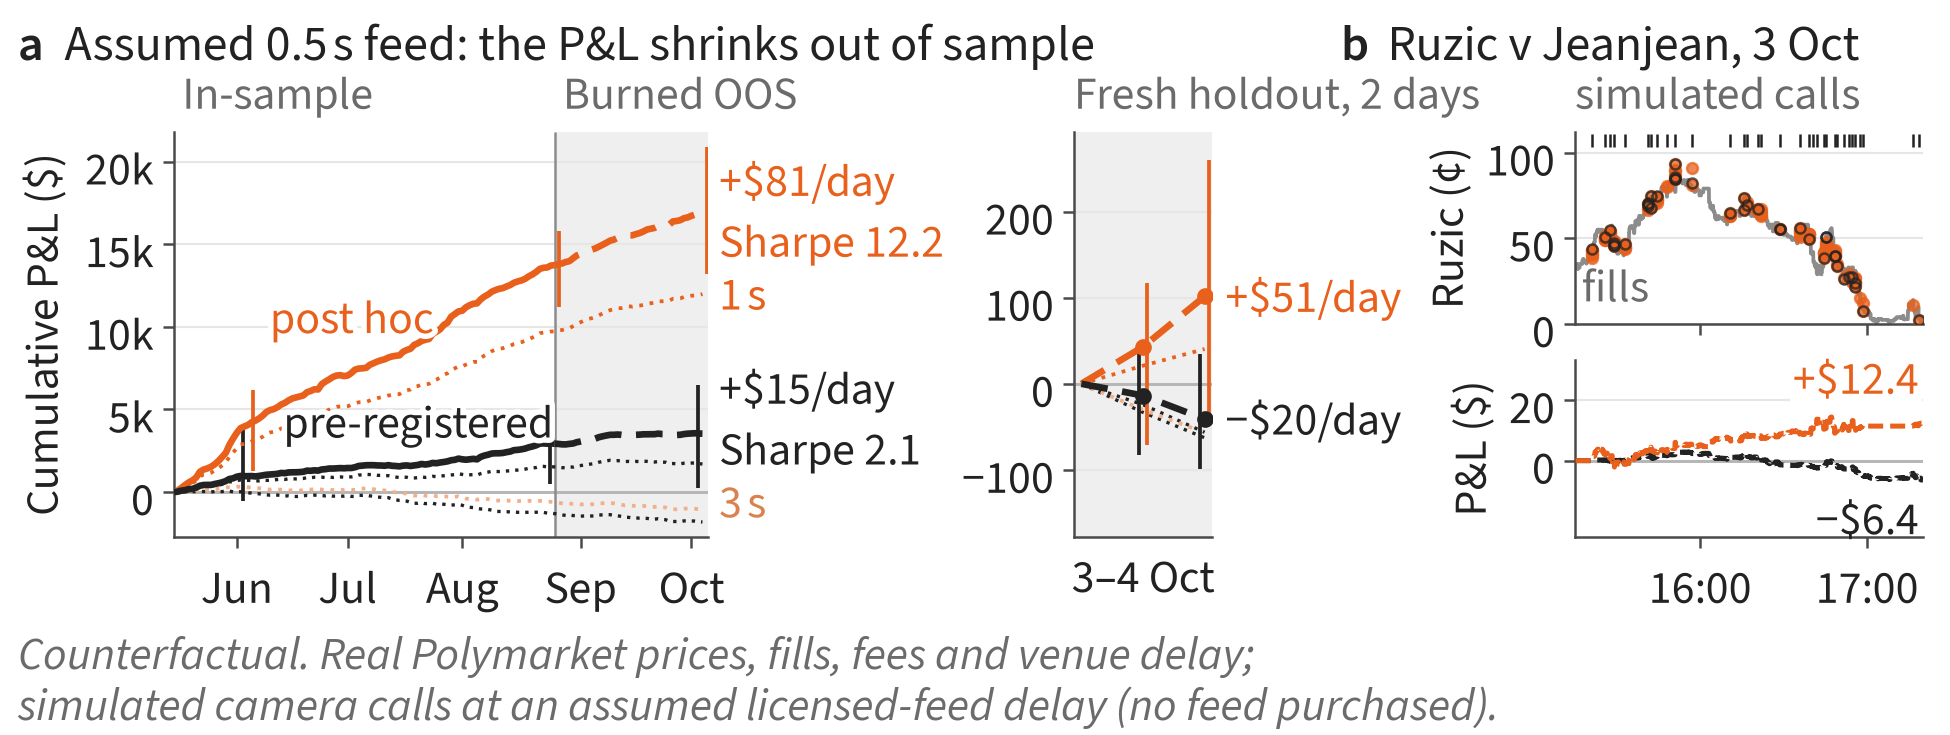
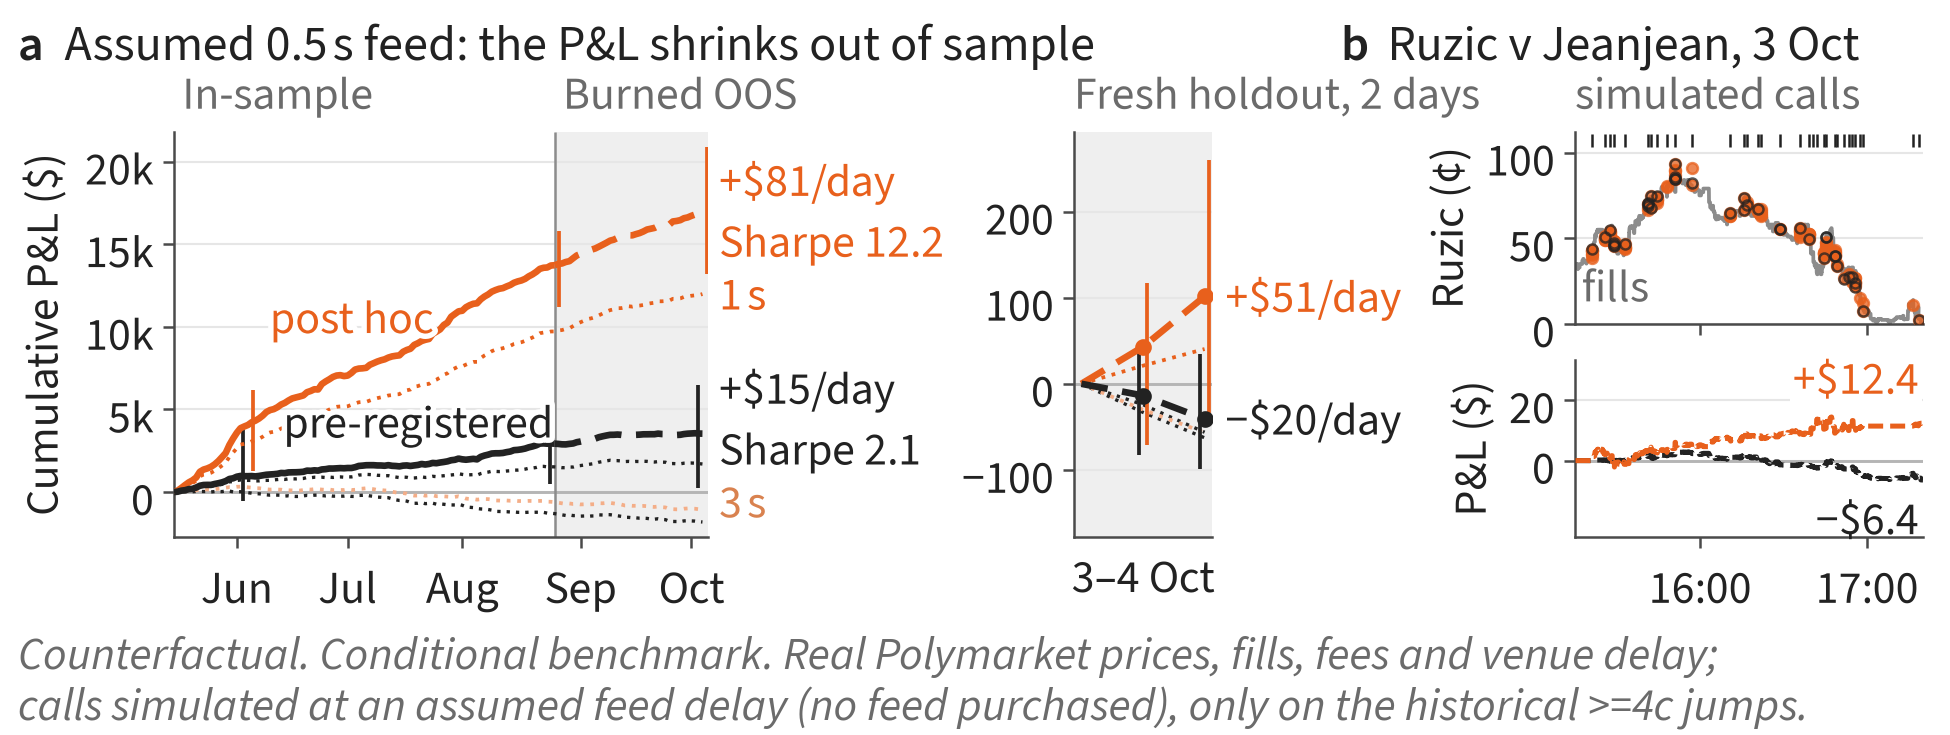
Firm scenario figure: label the jump-set trader as a conditional benchmark; figure and caption regenerated, numbers unchanged

Changed region(s): [[0.0, 0.868, 0.9231, 0.9878]]

diff --git a/scripts/firm_scenario_fig.py b/scripts/firm_scenario_fig.py
@@ -1,4 +1,5 @@
-"""Paper figure: "if we were a quant firm with a licensed 0.5 s feed" (fresh-holdout scenario).
+"""Paper figure: "if we were a quant firm with a licensed 0.5 s feed" (fresh-holdout scenario), on the CONDITIONAL
+jump-set benchmark (trades = the historical >= 4c jumps, selected on outcomes; not a tradable book).
 
     COUNTERFACTUAL WITH ASSUMED DATA. Real: Polymarket prices, fills (public trade tapes), match results, taker fees
     and the venue's 1 s order delay. Simulated: the camera/CV calls, made at an ASSUMED licensed-feed delay V.
@@ -43,11 +44,13 @@ FH = ROOT / "results/fresh_holdout"
 OUT = ROOT / "results/scenario"
 NAME = "fig_firm_05s"
 STRAT = "S2"
-LABEL_FIG = ("Real Polymarket prices, fills, fees and venue delay; simulated camera calls at an assumed licensed-feed "
-             "delay (no feed purchased).")
+LABEL_FIG = ("Conditional benchmark. Real Polymarket prices, fills, fees and venue delay; calls simulated at an assumed "
+             "feed delay (no feed purchased), only on the historical >=4c jumps.")
 LABEL_LONG = ("COUNTERFACTUAL WITH ASSUMED DATA: real Polymarket prices, fills, match results, taker fees and venue "
               "delays; SIMULATED camera/CV calls at an assumed licensed-feed delay V (no feed purchased, no video "
-              "watched, no orders placed). Trades are the historical >= 4c jump set, selected on outcomes, not ex ante.")
+              "watched, no orders placed). Trades are the historical >= 4c jump set, selected on outcomes, not ex ante: "
+              "a conditional benchmark (src/tier0.TRADE_SET_LABEL['jumps']), not a tradable book; the causal "
+              "every-point book is scripts/cv_causal_points.py.")
 READ_LAB = {"pre": "pre-registered stamp lag 2.0 s", "cal": "post hoc stamp lag 3.142 s"}
 
 W, H = fs.FIG_W, 2.45
@@ -419,7 +422,8 @@ def caption(N: dict) -> str:
     nm = sorted(round(f[f"{rd}|V0.5"]["n_matches_traded_seed_mean"]) for rd in READ_LAB)
     s1 = (f"Counterfactual with assumed data: real Polymarket prices, fills, taker fees and the venue{fs.RSQUO}s 1{fs.THIN}s "
           f"order delay, with the camera calls simulated at an assumed licensed-feed delay (no feed purchased, no "
-          f"order placed); (a) cumulative P&L of the paper{fs.RSQUO}s Table 2 CV trader on 10 matches a day at a "
+          f"order placed); (a) cumulative P&L of the conditional jump-set benchmark (the paper{fs.RSQUO}s Table 2 CV trader, "
+          f"trading only the historical jumps of at least 4{fs.CENT}) on 10 matches a day at a "
           f"0.5{fs.THIN}s feed (mean of 20 seeds, whiskers 10{fs.NDASH}90{fs.THIN}% of seeds) under the pre-registered "
           f"2.0{fs.THIN}s stamp lag (black) and the post hoc 3.14{fs.THIN}s lag (orange), dotted lines the same two "
           f"readings at 1{fs.THIN}s and 3{fs.THIN}s (only the post hoc ones are labelled), end labels the burned-OOS $/day and annualised Sharpe "
@@ -443,7 +447,8 @@ def caption(N: dict) -> str:
           f"the fills of all 20 seeds (dots; the ledger seed filled none) and the 20-seed mean P&L marked to the "
           f"1{fs.THIN}s price (UTC), {fs.usd(pm['cal']['mean_usd'], 1, sign=True)} post hoc and "
           f"{fs.usd(pm['pre']['mean_usd'], 1, sign=True)} pre-registered at resolution; in both panels the trades are "
-          f"the historical price jumps of at least 4{fs.CENT}, which are selected on outcomes.")
+          f"the historical price jumps of at least 4{fs.CENT}, which are selected on outcomes, so neither panel is a "
+          f"tradable book.")
     return "\n".join([s1, s2, s3]) + "\n"
 
 
